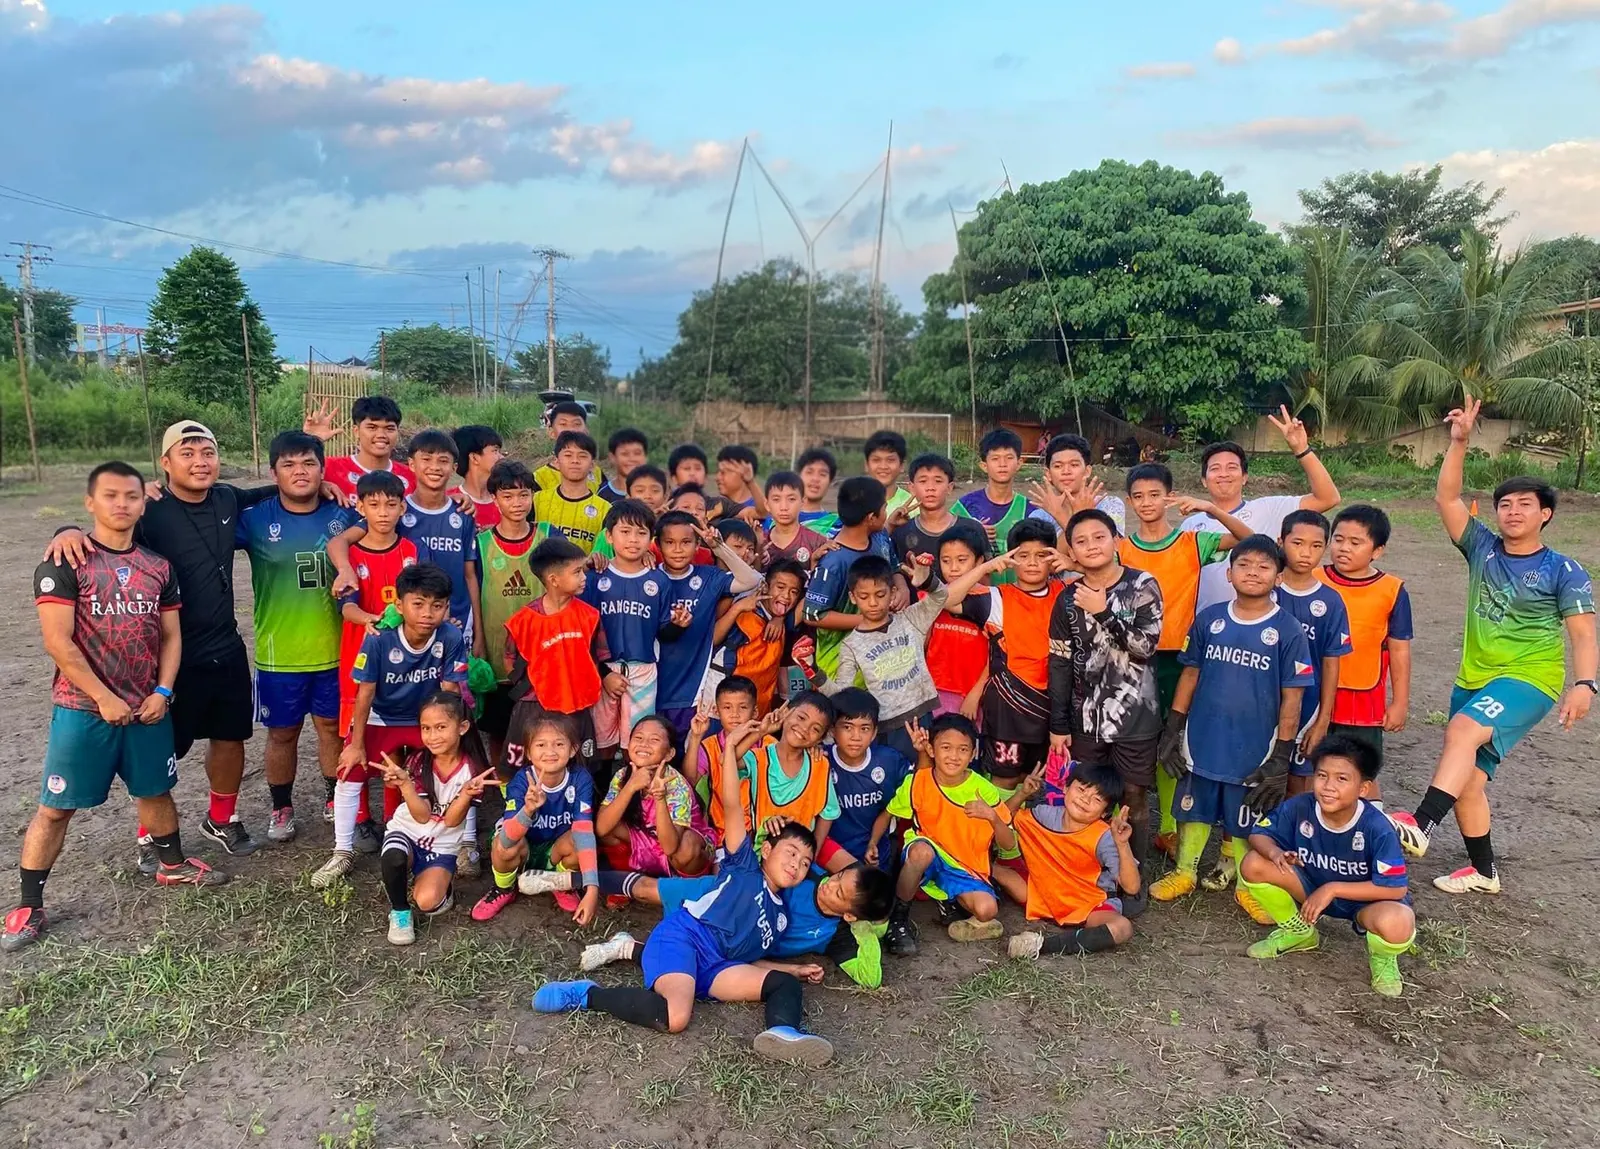
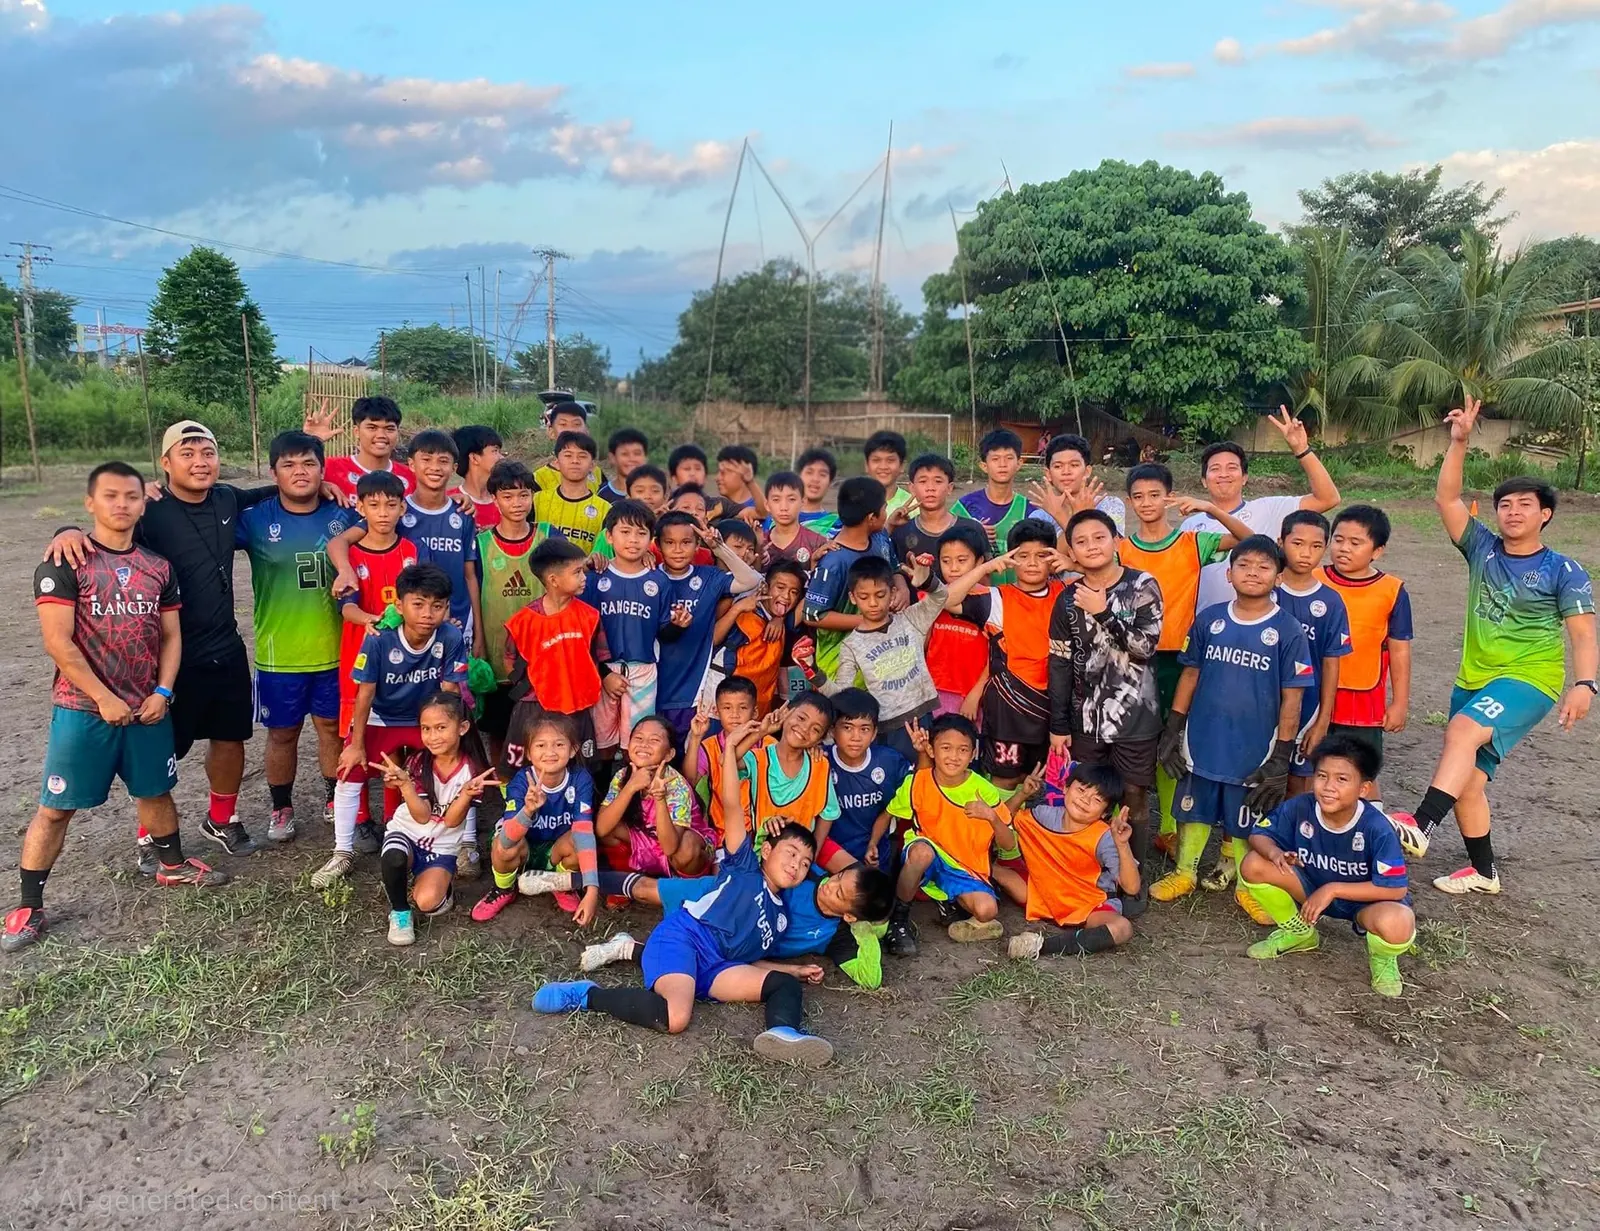
Show the squad photo whole, uncropped
Filling the band edge to edge was cutting the front row off at the knees
and clipping the coach on the left. The photo now shows its full frame:
contain rather than cover, capped at 82vh so the whole group is visible in
one glance without the band running past a screen height, and the navy
shows through as letterbox.

The source is back to the full frame too, so the Galaxy AI edit label in
the corner stays. The club is happy for it to show.

Claude-Session: https://claude.ai/code/session_017UMrp28GQ7WjchyY6dALSW

diff --git a/index.html b/index.html
@@ -392,14 +392,14 @@ section{padding:96px 0;position:relative}
 .prog h3{font-family:var(--body);font-weight:700;font-size:1.04rem;letter-spacing:0}
 .prog p{font-size:.95rem;margin-top:3px;max-width:none}
 
-/* Squad band — a full-bleed establishing shot between the programmes and
-   the goal quote. No text sits over the faces. */
-.squad{position:relative;background:var(--navy-ink);overflow:hidden}
-.squad-img{position:relative;height:clamp(300px,52vw,620px);overflow:hidden}
-.squad-img img{position:absolute;left:0;top:-8%;width:100%;height:116%;
-  object-fit:cover;object-position:center 44%;will-change:transform}
-.squad-img::after{content:"";position:absolute;inset:0;pointer-events:none;
-  background:radial-gradient(120% 100% at 50% 45%,rgba(0,0,0,0) 45%,rgba(3,8,15,.5) 100%)}
+/* Squad band — an establishing shot between the programmes and the goal
+   quote. The whole frame is shown: contain rather than cover, so nobody is
+   cropped out, with the navy showing through as letterbox on wide screens.
+   No text sits over the faces. */
+.squad{position:relative;background:var(--navy-ink)}
+.squad-img{position:relative;line-height:0;max-width:1400px;margin:0 auto}
+.squad-img img{display:block;width:100%;height:auto;max-height:82vh;
+  object-fit:contain;margin:0 auto}
 .squad figcaption{padding:22px 0 26px}
 .squad figcaption .wrap{display:flex;flex-wrap:wrap;gap:6px 22px;align-items:baseline}
 .squad figcaption p{color:var(--sky-soft);font-size:.95rem;max-width:58ch;margin:0}
@@ -777,9 +777,9 @@ footer{background:var(--black);border-top:1px solid rgba(156,203,232,.12);paddin
 <!-- ============ SQUAD ============ -->
 <figure class="squad">
   <div class="squad-img">
-    <img class="par" data-speed="-0.05" src="assets/squad.webp"
+    <img src="assets/squad.webp"
          alt="The Rangers squad and coaches together on the club's home pitch in Barangay Mabuhay"
-         width="1600" height="1149" loading="lazy" />
+         width="1600" height="1231" loading="lazy" />
   </div>
   <figcaption>
     <div class="wrap">
